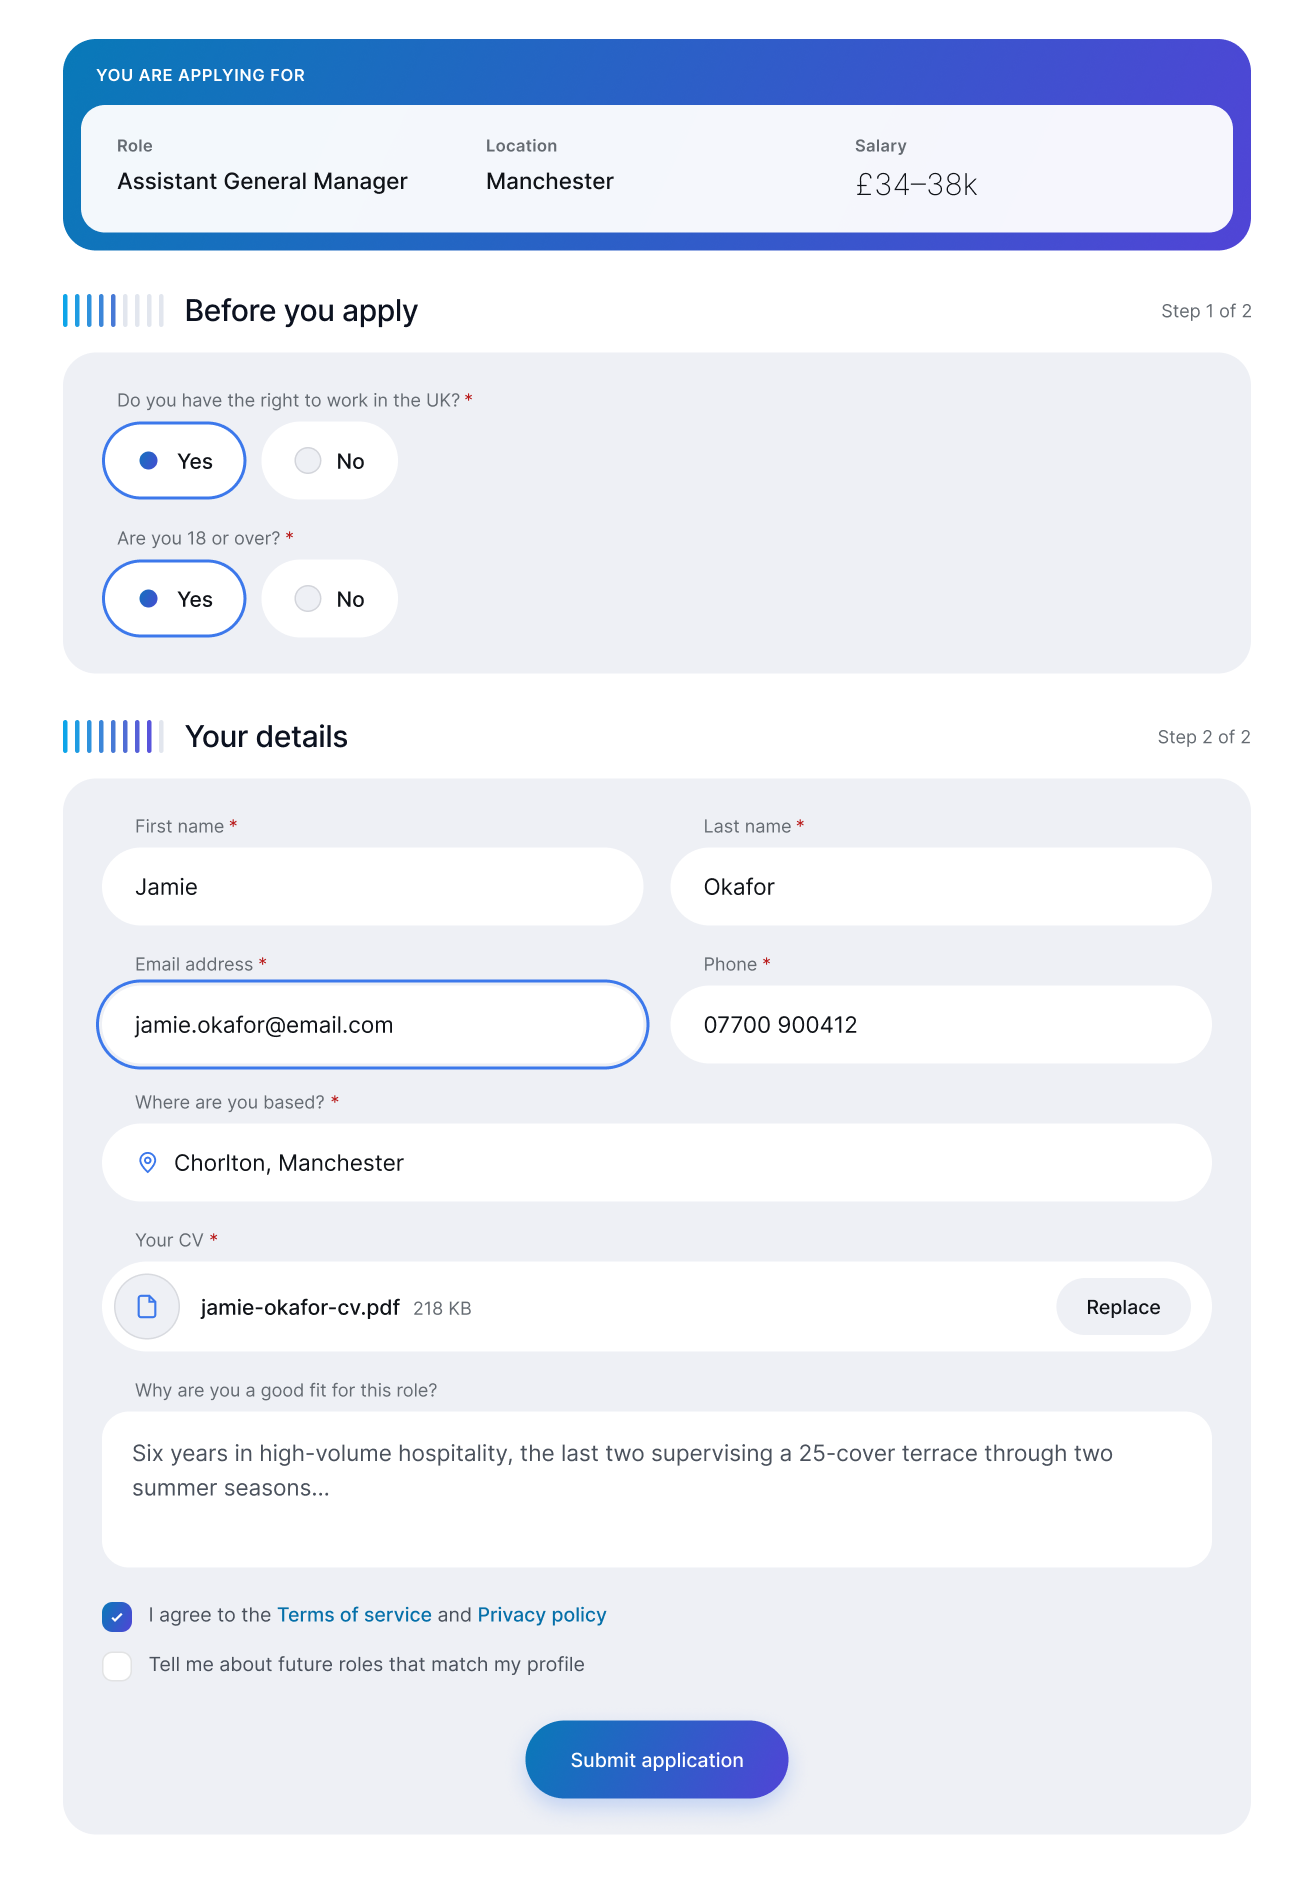
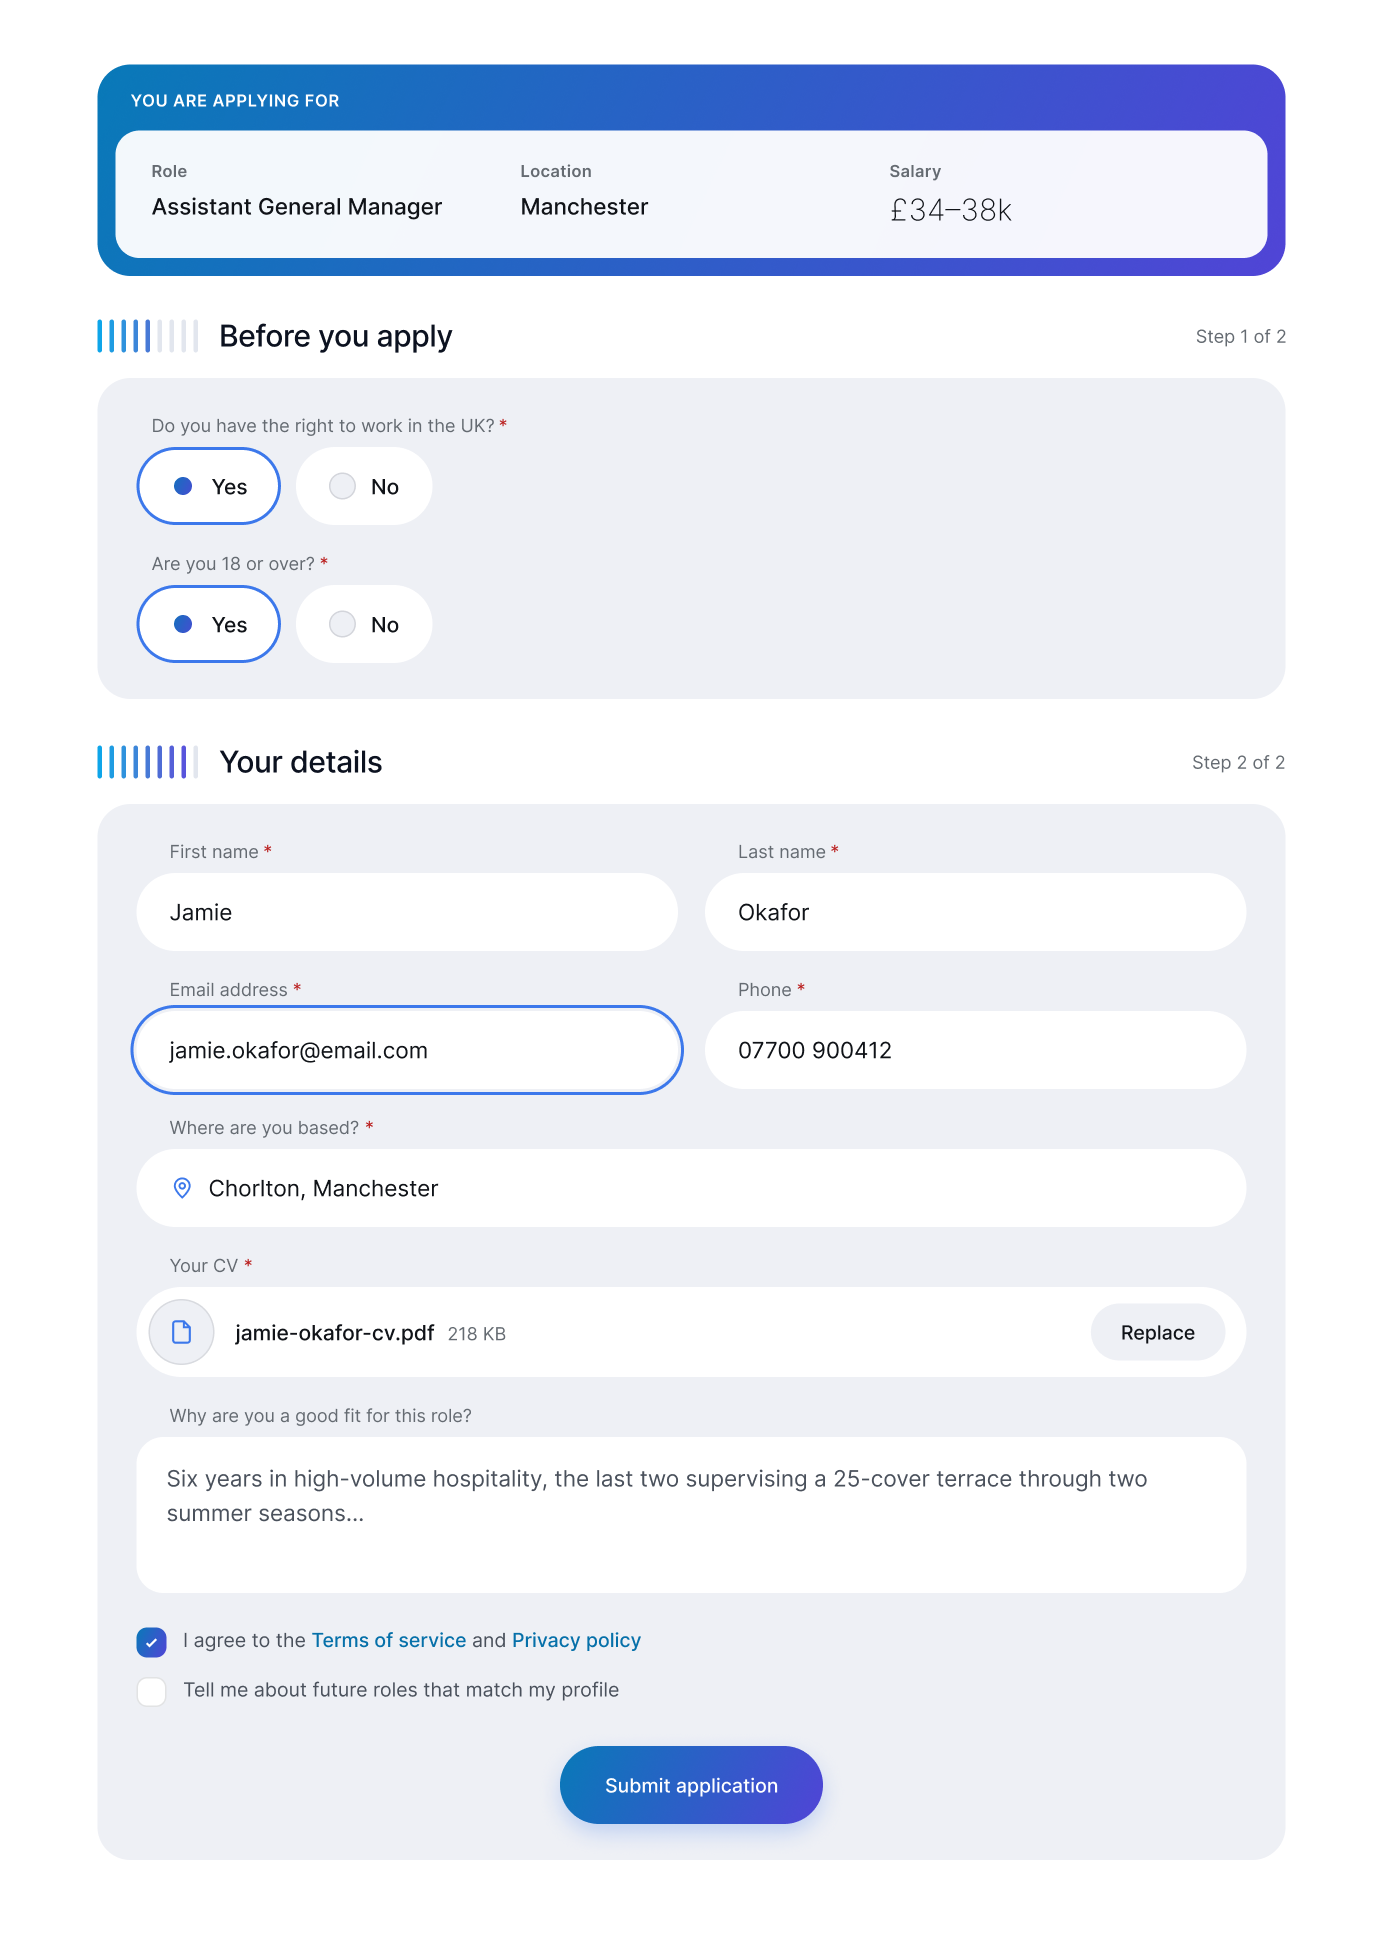
Swap in the re-exported apply-flow shot
The new export has real content this time — sampled 40,000 pixels, 50%
non-white against the previous file's 0%. Installed, and its intrinsic
size updated from 1314x1895 to 1382x1955.

Getting it to actually appear took a dev server restart. The raw file was
correct immediately (verified by md5 against disk and by decoding it in
the browser at 1382x1955), but the optimiser kept returning a variant at
the OLD aspect ratio even for a cache-busted URL and after .next/cache/
images was deleted — it holds the entry in memory for the life of the
process. Deleting the disk cache under a running server does nothing.

The tell was aspect ratio, not appearance: 0.693 rendered against 0.707
in the source. Two percent, invisible by eye, and the only reason I knew
the swap had not taken. Now 0.707 on both.

diff --git a/src/data/content/site.ts b/src/data/content/site.ts
@@ -111,8 +111,8 @@ export const capabilities = {
         /* Filename says job-description; the artwork is the apply flow.
            Alt describes what is actually on screen. */
         src: "/assets/steps/job-description.png",
-        w: 1314,
-        h: 1895,
+        w: 1382,
+        h: 1955,
         /* A full form needs the width to stay legible. */
         widthPct: 80,
         alt: "The Easy Apply flow: the role being applied for, two pre-qualification questions, then a details form with name, email, phone, location, CV upload and a submit button.",
